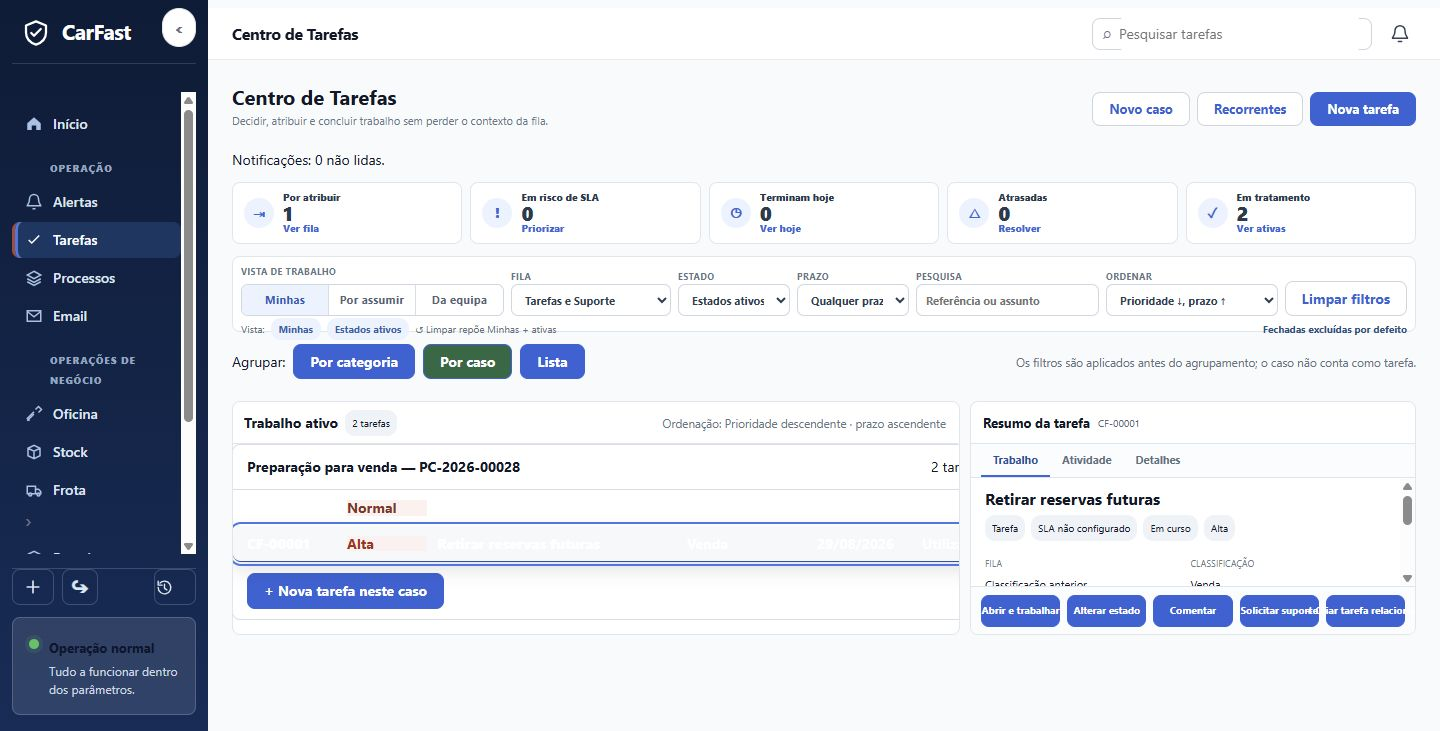
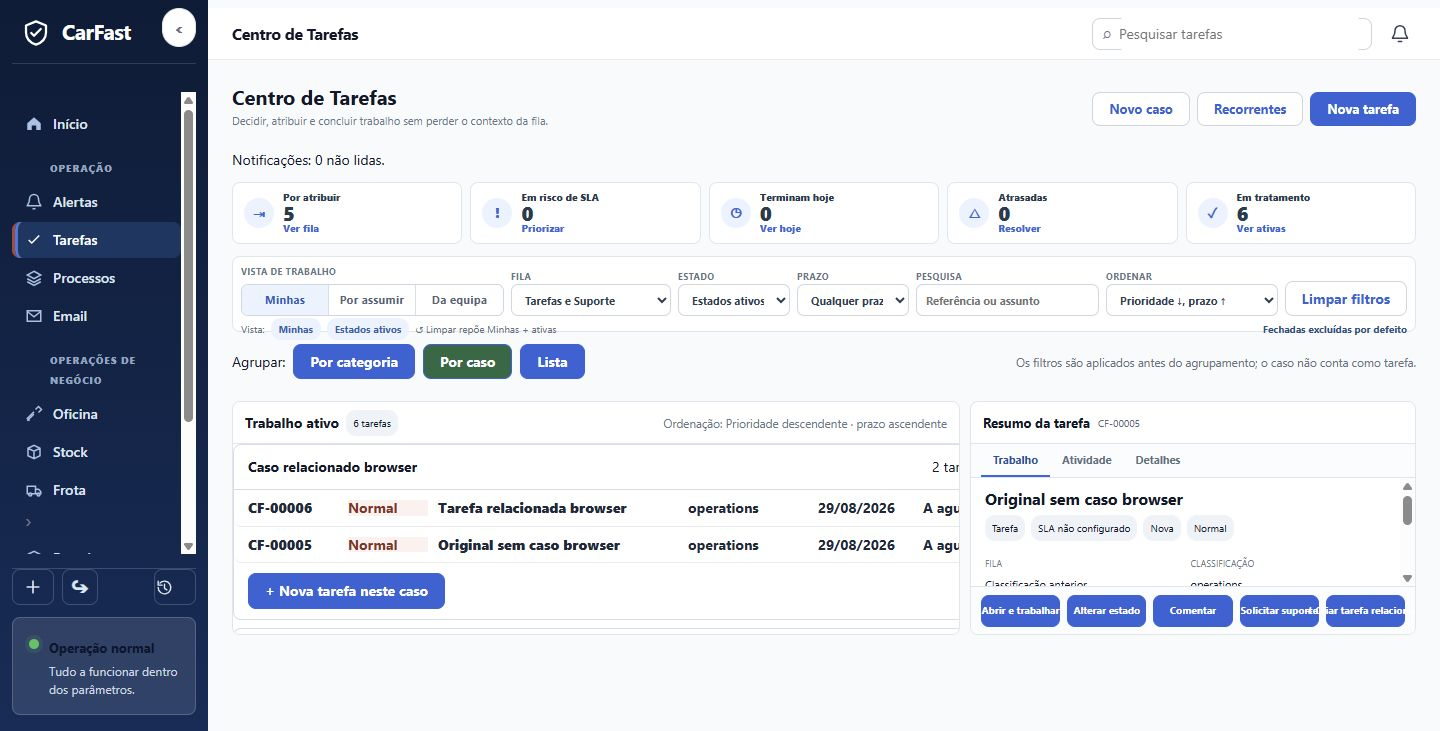
fix(task-cases): make grouped rows readable

diff --git a/app/static/css/ui-contract-v1.css b/app/static/css/ui-contract-v1.css
@@ -399,5 +399,5 @@
 /* Task cases/grouped proposal: feature-gated by the server-rendered controls. */
 .task-grouping-modes{display:flex;align-items:center;gap:8px;margin:0 0 10px}.task-grouping-modes button[aria-pressed="true"]{background:var(--primary,#176b44);color:#fff}.task-grouping-modes small{margin-left:auto;color:var(--muted,#667085)}
 .task-center-approved[data-grouping="category"] .task-center-approved-table-wrap,.task-center-approved[data-grouping="case"] .task-center-approved-table-wrap{position:absolute;left:-10000px;width:1px;height:1px;overflow:hidden}
-.task-grouped-list{display:grid;gap:8px}.task-group{border:1px solid var(--border,#d7dde5);border-radius:8px;background:var(--surface,#fff)}.task-group summary{display:grid;grid-template-columns:minmax(220px,1fr) repeat(4,minmax(80px,auto));gap:12px;padding:12px 14px;cursor:pointer}.task-group-children{border-top:1px solid var(--border,#d7dde5)}.task-group-child{width:100%;display:grid;grid-template-columns:90px 80px minmax(240px,1fr) 120px 95px 140px 95px 110px;gap:10px;align-items:center;text-align:left;padding:10px 14px;border:0;border-bottom:1px solid var(--border,#e6e9ee);background:transparent}.task-group-child:hover,.task-group-child:focus-visible{background:var(--soft,#f6f8fa)}.task-group-add{margin:10px 14px}.task-group .danger{color:#b42318}
+.task-grouped-list{display:grid;gap:8px}.task-group{border:1px solid var(--border,#d7dde5);border-radius:8px;background:var(--surface,#fff)}.task-group summary{display:grid;grid-template-columns:minmax(220px,1fr) repeat(4,minmax(80px,auto));gap:12px;padding:12px 14px;cursor:pointer}.task-group-children{border-top:1px solid var(--border,#d7dde5)}.task-group-child{width:100%;display:grid;grid-template-columns:90px 80px minmax(240px,1fr) 120px 95px 140px 95px 110px;gap:10px;align-items:center;text-align:left;padding:10px 14px;border:0;border-bottom:1px solid var(--border,#e6e9ee);background:transparent;color:var(--text,#1d2939)}.task-group-child:hover,.task-group-child:focus-visible{background:var(--soft,#f6f8fa)}.task-group-child:focus-visible{outline:2px solid var(--primary,#176b44);outline-offset:-2px}.task-group-add{margin:10px 14px}.task-group .danger{color:#b42318}
 @media(max-width:900px){.task-grouping-modes{align-items:flex-start;flex-wrap:wrap}.task-grouping-modes small{width:100%;margin-left:0}.task-group summary{grid-template-columns:1fr 90px}.task-group summary span:nth-of-type(n+2){display:none}.task-group-child{grid-template-columns:75px 70px 1fr 100px}.task-group-child span:nth-of-type(2),.task-group-child span:nth-of-type(3),.task-group-child span:nth-of-type(4),.task-group-child span:nth-of-type(5){display:none}}

diff --git a/tests/test_task_cases.py b/tests/test_task_cases.py
@@ -299,3 +299,12 @@ def test_case_surface_separates_create_and_update_capabilities() -> None:
     assert "group.case and can_update_cases" in source
     assert "task_cases_enabled and (can_create_cases or can_update_cases)" in source
     assert "task_cases_enabled and can_create_cases" in source
+
+
+def test_grouped_children_define_readable_text_and_visible_focus() -> None:
+    source = (
+        Path(__file__).parents[1] / "app/static/css/ui-contract-v1.css"
+    ).read_text(encoding="utf-8")
+    rule = source.split(".task-group-child{", 1)[1].split("}", 1)[0]
+    assert "color:var(--text,#1d2939)" in rule
+    assert ".task-group-child:focus-visible{outline:2px solid" in source

diff --git a/docs/evidence/task-center-grouped/CONTRACT_MATRIX.md b/docs/evidence/task-center-grouped/CONTRACT_MATRIX.md
@@ -29,9 +29,9 @@
 
 ## Gates executados
 
-- Testes novos: 10 PASS.
+- Testes novos: 11 PASS.
 - Regressão focada Centro de Tarefas: 70 PASS.
-- Lista exata do CI após todas as correções: 167 PASS em 96,04 s.
+- Lista exata do CI após todas as correções: 168 PASS em 102,25 s.
 - Compilação/import: PASS.
 - Baseline arquitetural: PASS.
 - Alembic graph: uma head, `fff6ab1c2d3e`.
@@ -39,7 +39,7 @@
 - Bootstrap da instalação sintética: PASS.
 - Browser real local, apenas com dados sintéticos e feature flags locais: três fluxos completos PASS; agrupamento/preview/workbench PASS; seleção por teclado com `Enter` PASS; foco inicial e sequência `Tab` no modal PASS.
 - Geometria 1440×731: viewport `1440×731`, documento `1440×731`, main `1232×731` após sidebar, zero overflow horizontal. Evidência: `screenshots/live-1440x731.png` e `screenshots/grouped-workbench-1440x731.png`.
-- Responsivo 390×844: documento `390×844`, zero overflow horizontal. Evidência: `screenshots/live-responsive-390x844.png`.
+- Responsivo 390×844 no modo `case`: documento `390×844`, zero overflow horizontal. Evidência: `screenshots/live-responsive-390x844.png`.
 - Revisão independente após três ciclos de correção: zero P0/P1.
 - `git diff --check`: PASS.
 

diff --git a/docs/evidence/task-center-grouped/BROWSER_EVIDENCE.md b/docs/evidence/task-center-grouped/BROWSER_EVIDENCE.md
@@ -18,10 +18,11 @@ O primeiro ensaio do fluxo 2 falhou fechado porque o utilizador sintético inici
 ## Geometria e acessibilidade
 
 - 1440×731: documento 1440×731; `main` 1232×731 depois da sidebar de 208 px; `scrollWidth=1440`; zero overflow horizontal.
-- 390×844: documento 390×844; `scrollWidth=390`; zero overflow horizontal; navegação colapsada.
+- 390×844 em agrupamento `case`: documento 390×844; `scrollWidth=390`; zero overflow horizontal; navegação colapsada.
 - Foco inicial do modal no título do caso; `Tab` avançou para o assunto.
 - Linha de tarefa selecionável com `Enter`; `aria-selected=true` e foco mantido na tarefa selecionada.
 - Agrupamento por caso, preview na linha e workbench foram verificados na mesma superfície.
+- A revisão independente detetou inicialmente texto herdado claro sobre os filhos brancos do agrupamento (P1). A regra passou a definir `rgb(29, 41, 57)` e foco visível; as capturas desktop e responsiva foram repetidas no modo `case` após a correção.
 
 ## Capturas
 
